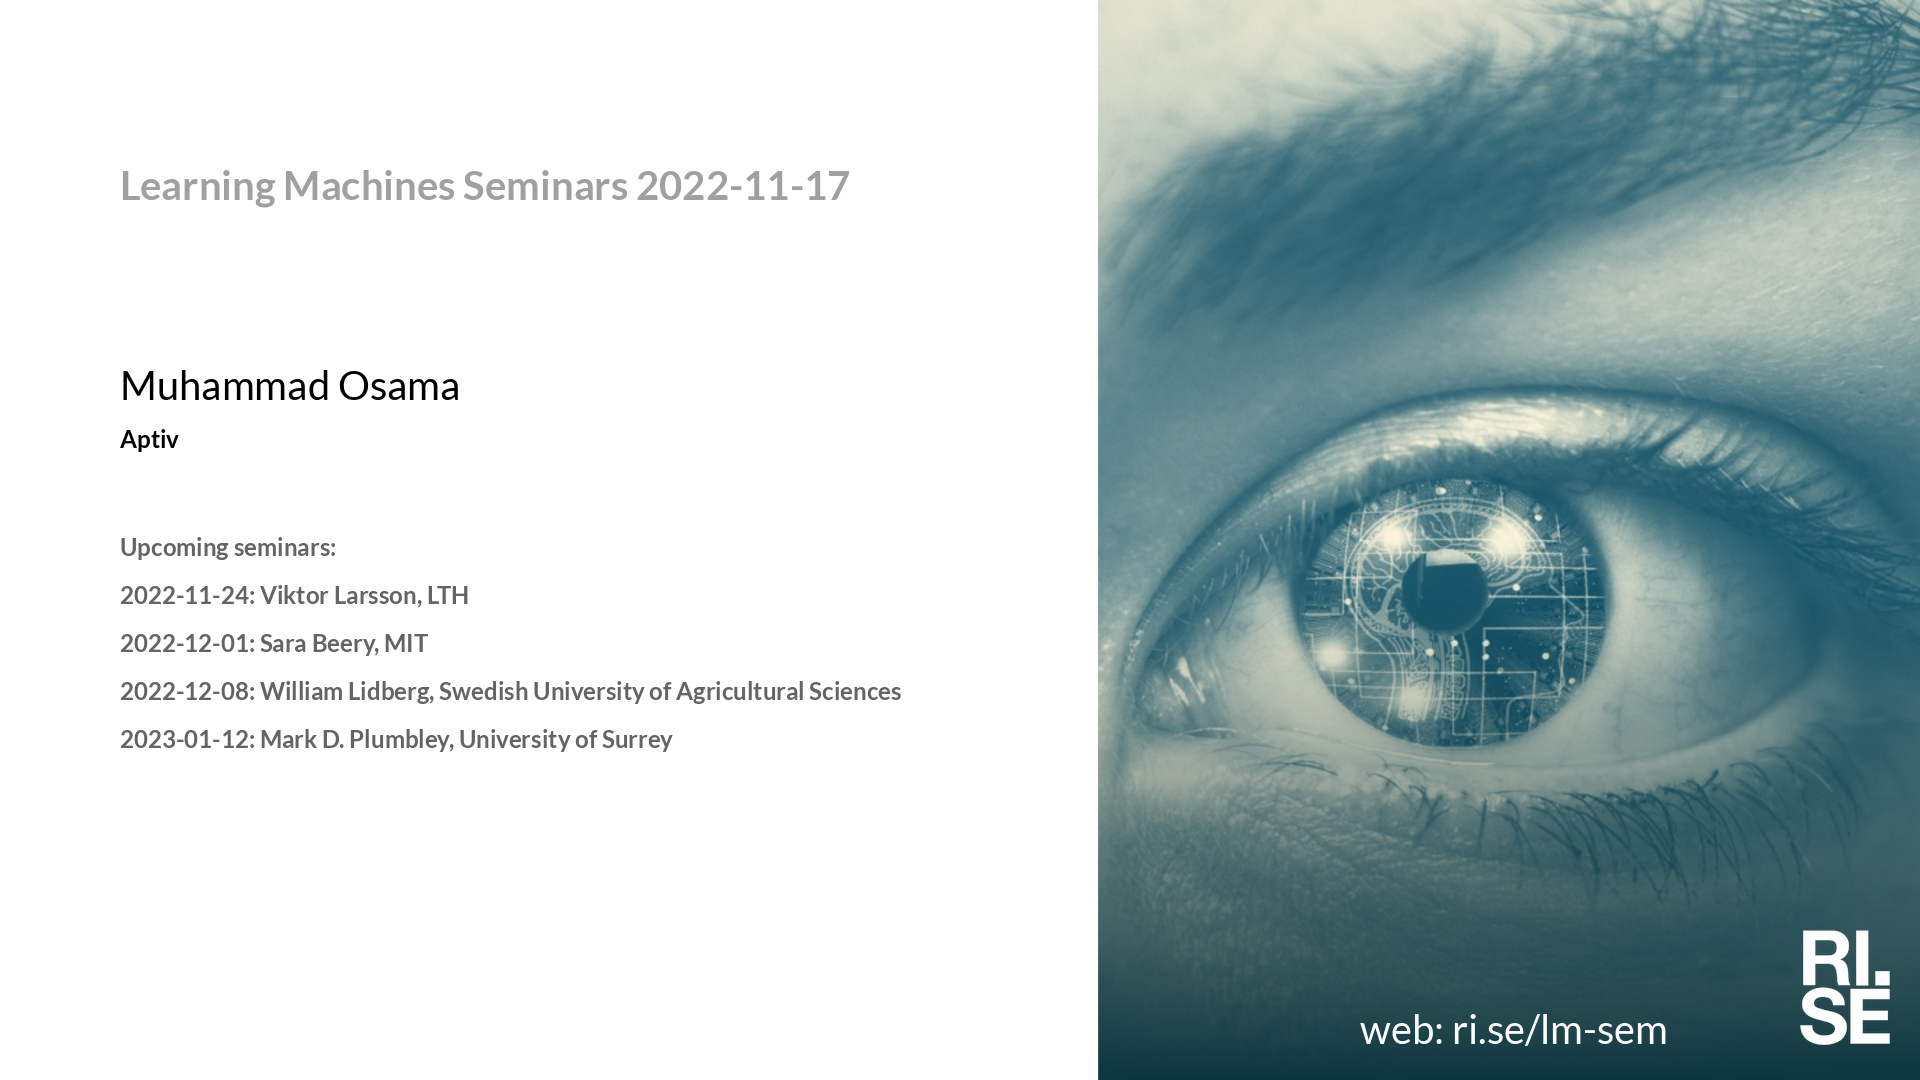
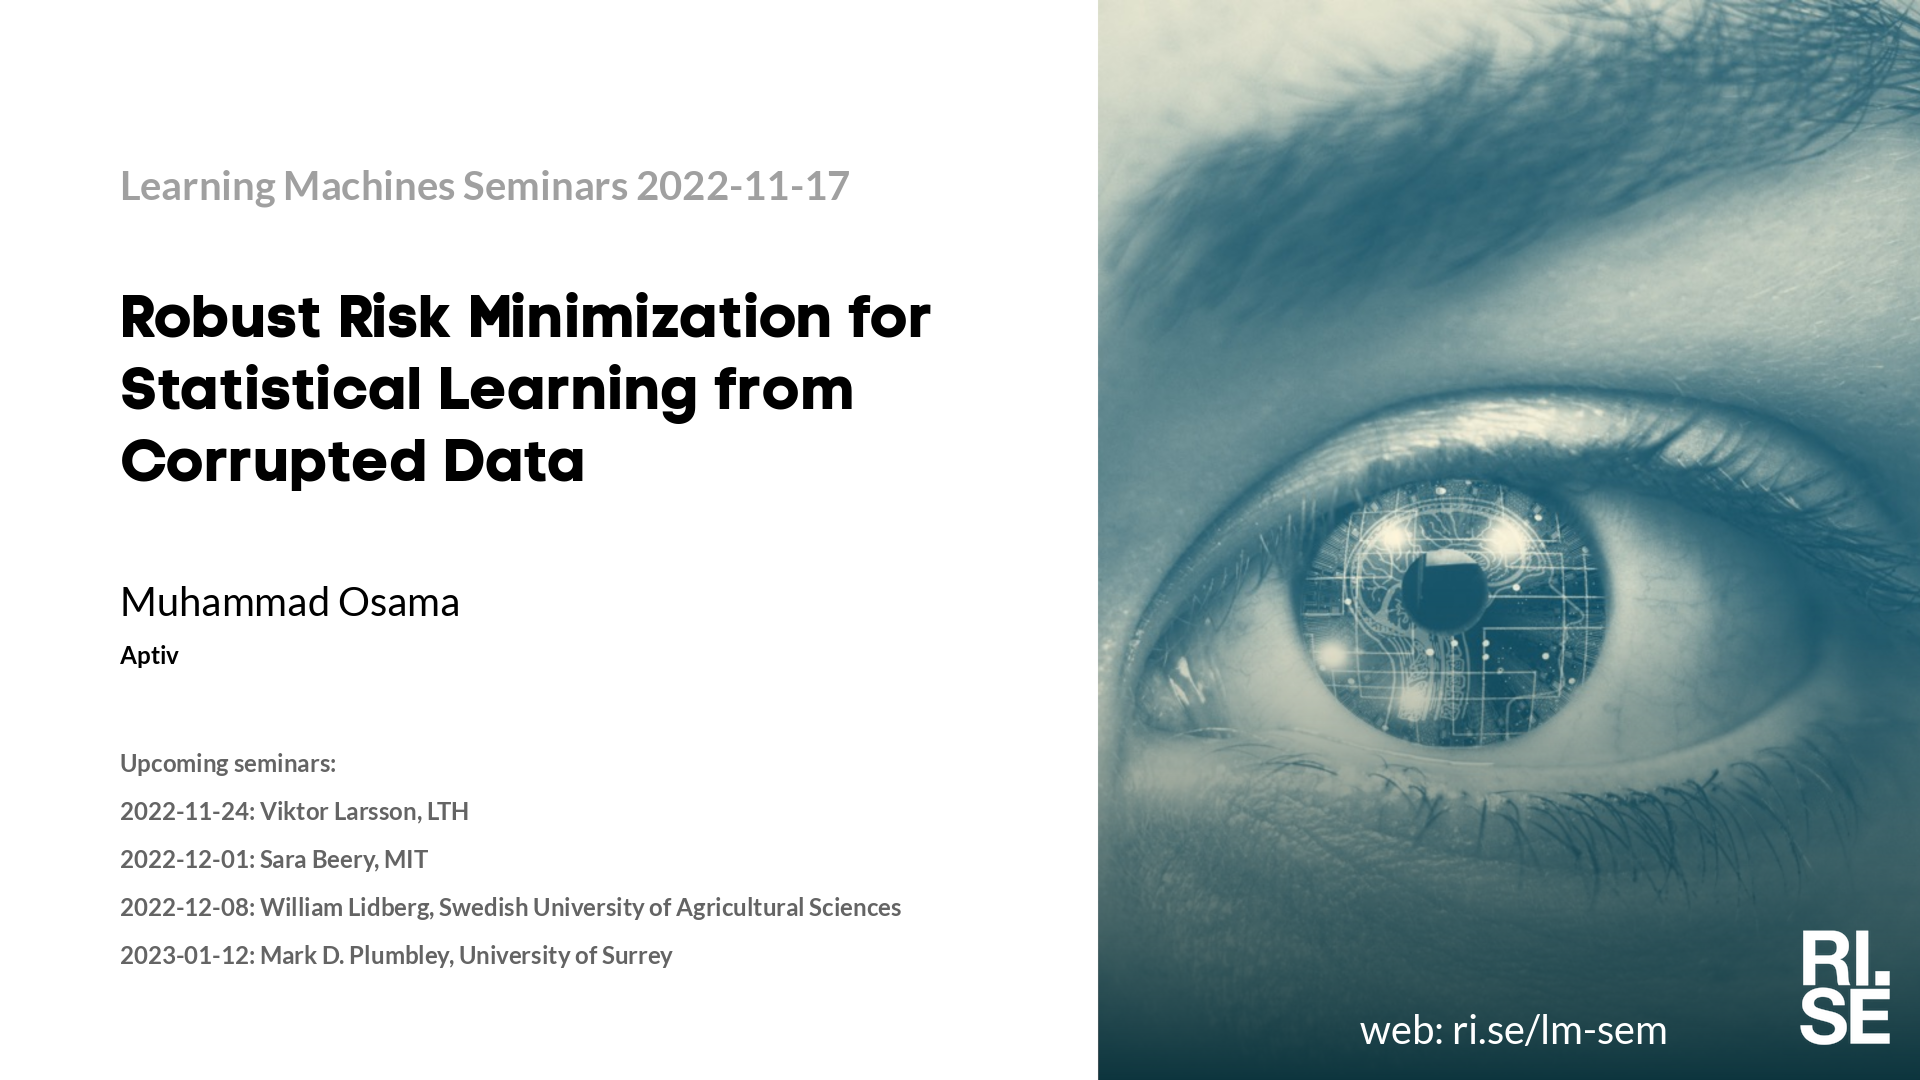
Updated plan on web site.

Changed region(s): [[0.0625, 0.4889, 0.4688, 0.9167], [0.0625, 0.275, 0.5, 0.4583]]

diff --git a/lm/2022-11-17.md b/lm/2022-11-17.md
@@ -1,12 +1,12 @@
 Welcome to this week's Learning Machines seminar.
 
-**Title:** 
+**Title:** Robust Risk Minimization for Statistical Learning from Corrupted Data
 
 **Speaker:** Muhammad Osama, Aptiv
 
-**Abstract:** 
+**Abstract:** We consider a general statistical learning problem where an unknown fraction of the training data is corrupted. We develop a robust learning method that only requires specifying an upper bound on the corrupted data fraction. The method minimizes a risk function defined by a non-parametric distribution with unknown probability weights. We derive and analyse the optimal weights and show how they provide robustness against corrupted data. Furthermore, we give a computationally efficient coordinate descent algorithm to solve the risk minimization problem. We demonstrate the wide range applicability of the method, including regression, classification, unsupervised learning and classic parameter estimation, with state-of-the-art performance.
 
-**About the speaker:** 
+**About the speaker:** I have a PhD in Electrical Engineering from Uppsala University where my research focused on machine learning (ML). During PhD, I have worked on several problem areas within ML e.g. statistical models for prediction in spatio-temporal data, causal inference and robust machine learning. Within robust machine learning, we looked at different aspects e.g. learning models when data is corrupted, when training and test distributions could be shifted, when data comes from different contexts/sources and the context is unknown at test time etc. After graduation, I have started working at Aptiv in Germany where I am applying machine learning to different perception related problems for automobile safety.
 
 **Location:** This is an online seminar. Connect using Zoom.
 
